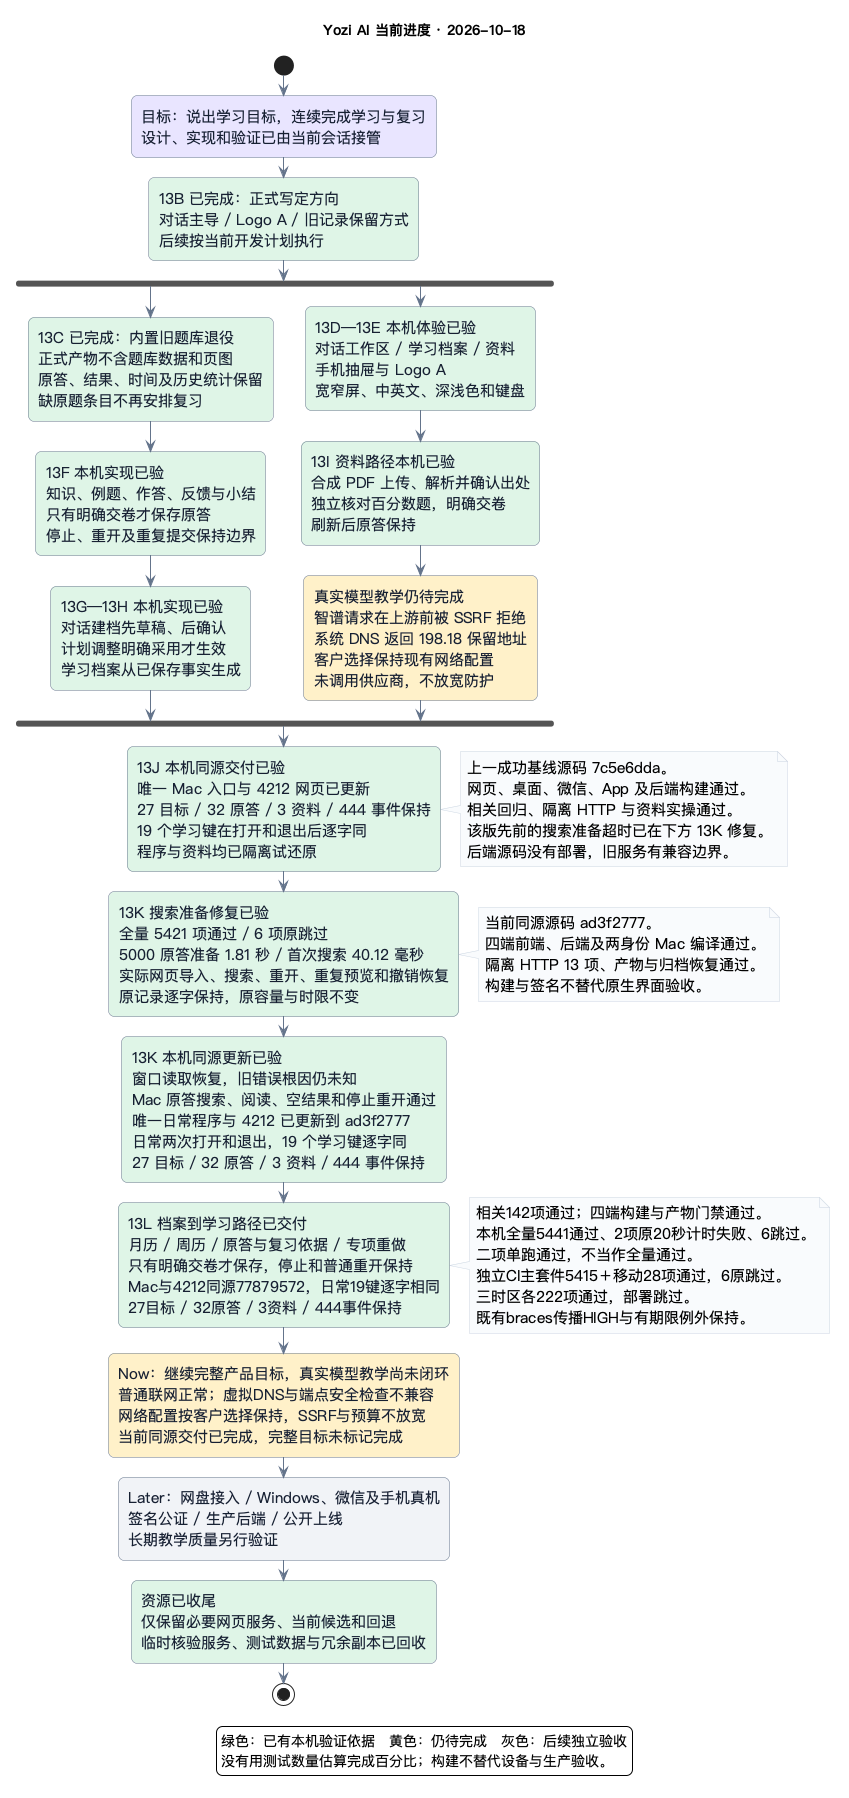
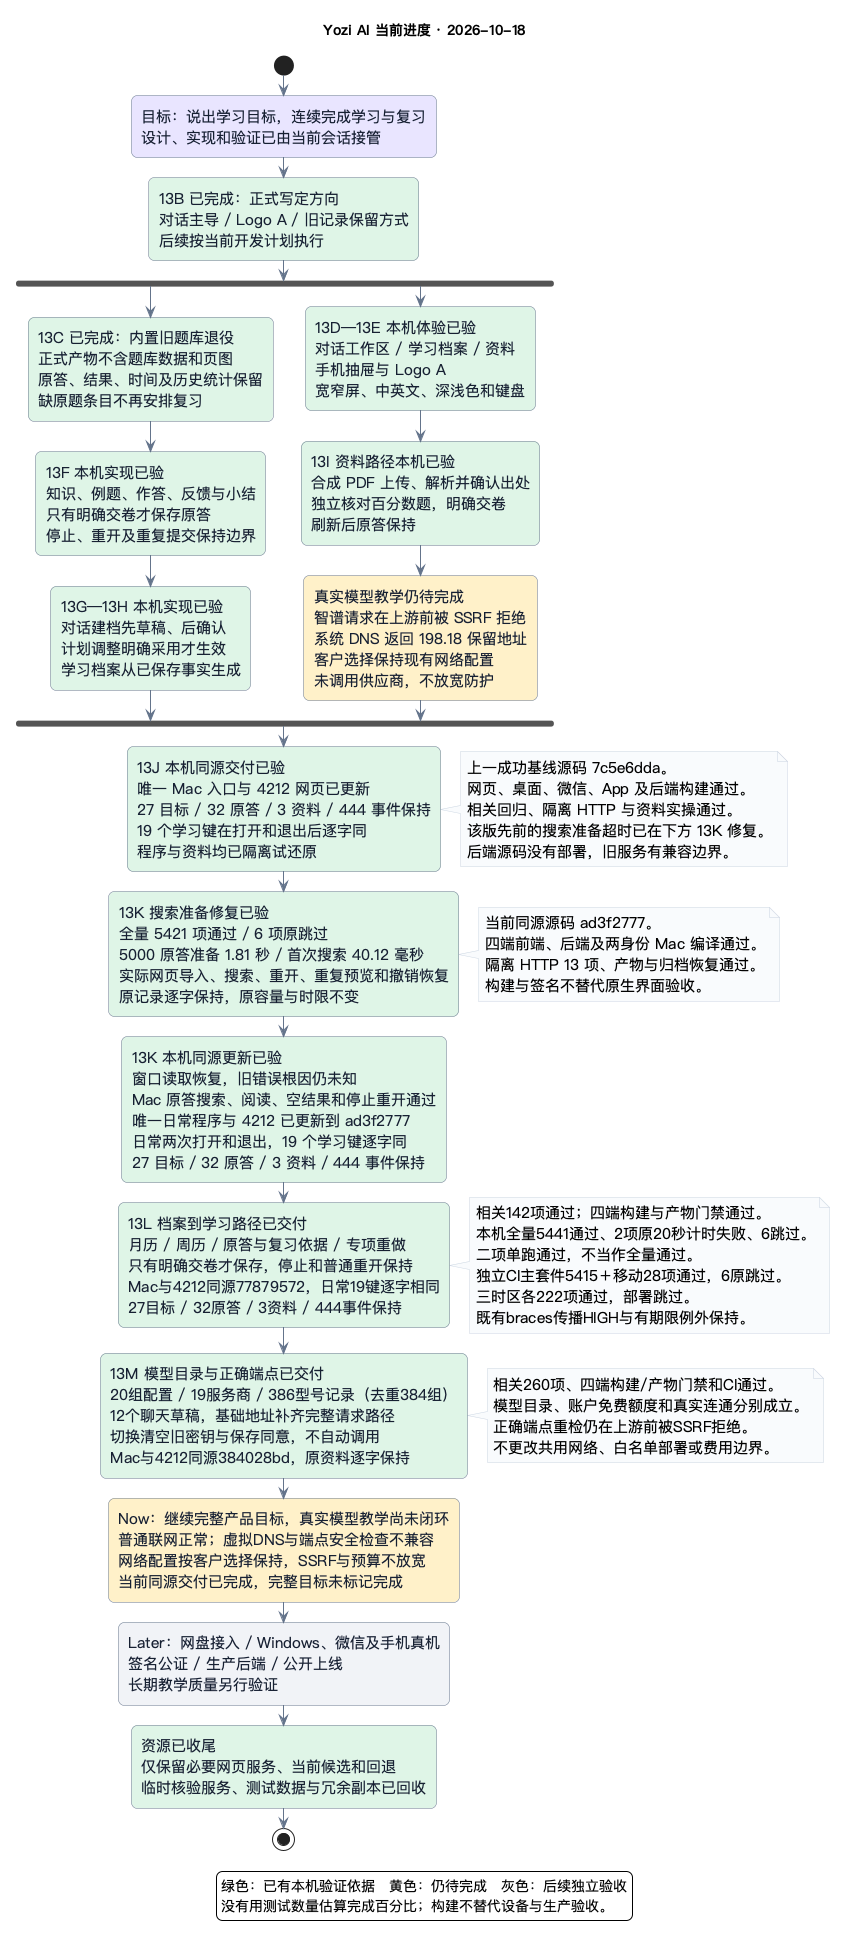
docs(delivery): record model endpoints and verified local update

Changed region(s): [[0.0306, 0.0, 0.9494, 0.9967]]

diff --git a/docs/13-DEVELOPMENT-PLAN.md b/docs/13-DEVELOPMENT-PLAN.md
@@ -4,27 +4,30 @@
 
 客户已授权当前 Codex 会话接管设计、实现与验证，并选定 Logo A。产品与体验合同见[01](01-PRODUCT-VISION.md#ai-辅导平台定位2026-10-18)、[07](07-STYLING-SYSTEM.md#ai-辅导平台界面2026-10-18当前规则)及根 AGENTS。此排序覆盖下方历史 Now / Next / Later 的执行顺序；旧证据不回写。
 
-| 阶段     | 用户结果与主要工作                              | 状态与完成条件                                                                                      |
-| -------- | ----------------------------------------------- | --------------------------------------------------------------------------------------------------- |
-| 交接/12D | 收尾既有 Mac/网页交付                           | 12D 通过；交付文档 6ede157e、09a5226f 已正常推送。4212 与日常版保留，目标 Claude 执行进程已退出。   |
-| 13A      | 对照新定位盘点差距                              | 已完成；沿现有实现逐批改造。                                                                        |
-| 13B      | 写定新方向与设计合同                            | 已提交 d2c6945f；新合同生效。                                                                       |
-| 13C      | 退役内置题库、页图、专用入口/脚本；保留历史记录 | 已实现；移除内置数据/页图/压缩表/索引与专用脚本，读时兼容、正式产物无残留通过。                     |
-| 13D–13E  | 对话工作区、学习档案容器、手机抽屉、Logo A      | 已实现；对话主导、档案/资料/设置、手机抽屉、Logo A；合成网页/Mac实际操作通过。                      |
-| 13F      | 知识→例题→明确作答→反馈→小结的受限卡片协议      | 本机实现；受限卡片/持久化/事件重放/同步保护/旧消息与停止重开已检查；真实模型闭环待网络可用。        |
-| 13G–13H  | 对话建档、用户确认的计划调整及事实图表          | 已实现；逐题建档草稿/原子确认、计划建议明确采用、事实知识点/日历/目标进度；相关交互与协议回归通过。 |
-| 13I      | 连接设置及上传资料学习                          | 本机资料上传/解析/出处通过；真实模型首次尝试被SSRF拒绝，not_called，未冒充教学通过。                |
-| 13J      | 界面细节与同源交付                              | 本机同源交付完成；构建/产物审计、Mac隔离与日常打开、资料保全及原子更新通过。                        |
-| 13K      | 搜索准备性能与真实教学接续                      | 搜索修复及Mac/网页同源更新完成；真实模型教学仍待安全可达端点。                                      |
-| 13L      | 档案月历/周历、依据追溯及专项学习接续           | 已同源交付77879572；日期/原答/专项重做/停止重开、四端构建与CI通过，日常19键逐字保持。               |
+| 阶段     | 用户结果与主要工作                              | 状态与完成条件                                                                                                |
+| -------- | ----------------------------------------------- | ------------------------------------------------------------------------------------------------------------- |
+| 交接/12D | 收尾既有 Mac/网页交付                           | 12D 通过；交付文档 6ede157e、09a5226f 已正常推送。4212 与日常版保留，目标 Claude 执行进程已退出。             |
+| 13A      | 对照新定位盘点差距                              | 已完成；沿现有实现逐批改造。                                                                                  |
+| 13B      | 写定新方向与设计合同                            | 已提交 d2c6945f；新合同生效。                                                                                 |
+| 13C      | 退役内置题库、页图、专用入口/脚本；保留历史记录 | 已实现；移除内置数据/页图/压缩表/索引与专用脚本，读时兼容、正式产物无残留通过。                               |
+| 13D–13E  | 对话工作区、学习档案容器、手机抽屉、Logo A      | 已实现；对话主导、档案/资料/设置、手机抽屉、Logo A；合成网页/Mac实际操作通过。                                |
+| 13F      | 知识→例题→明确作答→反馈→小结的受限卡片协议      | 本机实现；受限卡片/持久化/事件重放/同步保护/旧消息与停止重开已检查；真实模型闭环待网络可用。                  |
+| 13G–13H  | 对话建档、用户确认的计划调整及事实图表          | 已实现；逐题建档草稿/原子确认、计划建议明确采用、事实知识点/日历/目标进度；相关交互与协议回归通过。           |
+| 13I      | 连接设置及上传资料学习                          | 本机资料上传/解析/出处通过；真实模型首次尝试被SSRF拒绝，not_called，未冒充教学通过。                          |
+| 13J      | 界面细节与同源交付                              | 本机同源交付完成；构建/产物审计、Mac隔离与日常打开、资料保全及原子更新通过。                                  |
+| 13K      | 搜索准备性能与真实教学接续                      | 搜索修复及Mac/网页同源更新完成；真实模型教学仍待安全可达端点。                                                |
+| 13L      | 档案月历/周历、依据追溯及专项学习接续           | 已同源交付77879572；日期/原答/专项重做/停止重开、四端构建与CI通过，日常19键逐字保持。                         |
+| 13M      | 免费目录提取与完整请求端点                      | 已同源交付384028bd；20组/19服务商、12个聊天预设，相关检查/四端构建/CI及原资料保持通过，真实连接仍待安全可达。 |
 
-Now：按客户最新指示推进13M免费目录提取与正确请求端点配置，复用已交付13L档案→学习路径；真实模型教学仍按既有免费配置/合成资料授权待安全可达端点，不改共用网络。Next：围绕当前交付继续核对教学、计划和资料的完整用户路径及实际体验反馈；不重复已通过的全量检查，不将独立待验事项标成全产品完成。Later：夸克/百度网盘/Google Drive、Windows/微信/手机真机、签名公证及公开上线；后端部署继续另获授权。
+Now：13M免费目录提取与正确请求端点配置已同源交付384028bd，复用已交付13L档案→学习路径；真实模型教学仍按既有免费配置/合成资料授权待安全可达端点，不改共用网络。Next：围绕当前交付继续核对教学、计划和资料的完整用户路径及实际体验反馈；不重复已通过的全量检查，不将独立待验事项标成全产品完成。Later：夸克/百度网盘/Google Drive、Windows/微信/手机真机、签名公证及公开上线；后端部署继续另获授权。
 
 ### 阶段13M：免费目录与正确请求端点
 
 已读桌面私有HTML数据，提取20组配置/19服务商/386型号记录（去重384组服务商/型号）；两个Gemini项目分开，密钥与账户身份不入源码。全量提取清单沿[14](14-MODEL-PRIVACY-COST.md#免费目录提取与请求端点2026-10-18阶段13m)，12个聊天连接草稿使用已核对的完整请求端点。UI和保存接口仅对精确已知基础路径补齐一次，未知/不安全URL不猜测；选择不写事实或自动调用，切换清空旧密钥、能力和保存同意。未核实免费套餐的鉴权条目、受限条目、匿名/需账户模板不自动启用。
 
 原智谱完整路径本来正确；本次补齐目录不等于修复网络。四个既有获审模型域名使用正确完整端点预检仍为SSRF_BLOCKED，新增供应商调用0；共用网络与原授权/费用/SSRF/TLS边界保持。接入字段、网络可达、模型输出、教学真实性和真实设备分别验收。
+
+同源384028bd已交付Mac唯一入口和4212网页；网页与Mac实际验证预设和端点补齐，选择只改草稿。日常两次正常打开/退出后的19键逐字同，27目标/32原答/3资料/444事件保持；QA14键逐字同。260项相关检查、后端类型、四端构建/产物门禁及独立CI39149775278通过，部署跳过。微信主包1868901字节/媒体175891字节。两份新程序归档实际试还原/元数据/严格签名通过；配对回退及资源收尾沿[08C](08C-SCRIPTS-REFERENCE.md#阶段13m模型端点同源交付)。回收确认无消费者的App暂存/源码镜像63057445文件字节，临时4215退出，原4212及必要原件/备份保持。真实模型教学与完整产品目标继续如实未完成。
 
 ### 阶段13L：档案到学习的完整路径（本机已交付）
 

diff --git a/docs/08C-SCRIPTS-REFERENCE.md b/docs/08C-SCRIPTS-REFERENCE.md
@@ -2,7 +2,7 @@
 
 ## 阶段13：当前构建与题库退役（2026-10-18）
 
-当前交付以本节[阶段13L档案同源交付](#阶段13l档案同源交付)为准；其余阶段保留各自当时的成功基线与恢复条件。
+当前交付以本节[阶段13M模型端点同源交付](#阶段13m模型端点同源交付)为准；其余阶段保留各自当时的成功基线与恢复条件。
 
 13C–13J本机交付固定源码 `7c5e6dda`，唯一Mac入口 `/Users/blackdj/Applications/Yozi AI.app`，版本2.2.0、标识 cn.wangshiliang.wenli.localqa93d5ef76c442 与原资料UUID保持；同身份ad-hoc严格签名通过，不代表签名公证。该版网页入口 `/static/js/index-CLawqI_3.js`，4212原PID10463保持、HTTP逐字核对通过。此前12D交付文档已推送；本批源码与交付记录在本机验收后正常同步仓库，不代表生产部署。
 
@@ -13,6 +13,22 @@
 现行 `audit:question-bank:report/release` 检查源码及指定正式产物不得残留退役题库，旧清洗/压缩/覆盖命令已撤下；下文此前题库清洗和构建说明仅为历史证据，不再执行。通用私人资料解析、OCR、上传恢复、判分和FSRS保留。test:baidu:pipeline 同时保留来源/原件同步与私人解析检查，旧清洗队列及固定考研目录扫描别名撤下。正式发布仍经过公开产物、来源/答案、隐私、安全与外部设备门禁；不运行真实云端发布或付费操作。
 
 候选构建使用 `YOZI_ISOLATED_BUILD=1` 与 `UNI_OUTPUT_DIR=tmp/p13-candidate/<目标>`；保持4212和日常App，直至隔离核验后原子交付。后端编译至同一候选目录，未部署。`verify-learning-live.mjs --tasks album` 单独使用合成百分数资料验证知识/例题卡、精确核对、明确采用计划、订正和独立变式；最多一次请求，后端免费配置与平台付费关闭，不自动重试。客户已在当前会话授权持续使用现有免费配置与合成资料；每次仍记录账本与接收状态。当前首次请求因系统DNS返回198.18保留段被SSRF拒绝，账本not_called，不作为实际教学通过。
+
+### 阶段13M模型端点同源交付
+
+当前本机同源源码384028bd，唯一Mac入口、版本2.2.0、兼容可执行名wenli-desktop、原标识和资料UUID保持。H5入口index-CRYNVEiJ.js、桌面前端index-DHj9UFXN.js；4212原launchd/PID10463保持，实际HTTP与磁盘逐字一致，托管PWA正常关闭重开启用新入口、单一开始动作及0个学习键保持。客户Chrome未操作。
+
+两端均包含12个模型连接草稿及正确完整端点；网页实际验证智谱/Groq填入、基础地址补齐、切换清除密钥/能力/保存同意，Mac验证端点填入与基础路径补齐。网页390/768/1280/1440无横向溢出，已有合成学习键摘要不变；QA Mac原停止断点可读、正常退出后14键与前态逐字同。日常两次实际打开/正常退出，19键与复用的已核验私人备份逐字同，27目标/32原答/3资料/444事件保持；不保存新的账户连接或调用模型。
+
+当前回执指针为`tmp/p13-candidate/verification.json`的`activeContinuation.freeApiConfiguration`。程序归档daily-api-candidate.app.zip / qa-api-candidate.app.zip，均实际解包、核对9项内容/模式/xattrs/恢复纳秒时间及严格签名。对应nativeCandidates.daily.metadata / qa.metadata为恢复依据；mtimeNs使用字符串并用保持精度的工具读写，ZIP不保证纳秒时间。先恢复程序与元数据、核验标识和签名，再打开；程序回退不能覆盖日后新增资料。
+
+上一成功77879572沿daily-archive-candidate.app.zip、元数据activeContinuation.archiveContinuation.nativeCandidates.daily.metadata及配对网页`dist/build/h5-before-api`；更早ad3f2777与7c5e6dda/12A指定基线保留。日常私人备份继续复用private/daily-learning.archive-before.json，QA复用private/qa-learning.archive-after.json，本次替换前已重新比对新鲜只读SQLite；本轮无学习格式变更和资料迁移。原生源码镜像仍只加既定日常UUID适配，差异写入当前回执，根Rust源码未改。
+
+260项相关检查、增强后的预设密钥/能力/同意单项、后端类型检查、四端构建、公开产物/退役无残留检查通过。微信主包1868901字节，媒体175891字节。独立CI39149775278在384028bd通过Lint/Test及既有安全扫描政策，两个部署任务均跳过；现有依赖例外未因本批配置修正而消失，不宣称零依赖风险。编译后的backend复用既有目录，没有部署或启动生产服务。
+
+私有提取清单private/free-api-connections.json含20组/19服务商/386型号记录、去重384组服务商/型号及完整请求端点，不含密钥，0600，不进入Git；桌面源文件未修改。智谱原完整端点本来正确；使用正确端点重检四个既有供应商仍SSRF_BLOCKED、上游调用0，共用网络与安全/费用配置保持。
+
+核验App已正常退出并精确注销，日常入口正常注册；临时4215/PID69388按启动时间核对后正常终止并回收。确认无活跃引用后回收两份App暂存及源码镜像共63057445文件字节；磁盘可用空间63419973632→63481573376字节单列，不当作RAM释放。保留4212、当前候选/完整型号清单、最近两份已验历史备份与指定恢复基线、原资料和大编译缓存。
 
 ### 阶段13L档案同源交付
 

diff --git a/docs/12-CHANGELOG.md b/docs/12-CHANGELOG.md
@@ -6,6 +6,8 @@
 
 智谱、Z.ai、Gemini和Groq已使用完整正确端点再次预检，仍被原虚拟DNS/SSRF检查在上游前拒绝；没有真实供应商调用或共用网络修改。此前智谱完整端点原本正确，不能将补齐地址误报为网络问题已经解决。
 
+同源384028bd已更新日常Mac和4212网页。260项相关检查、后端类型、四端构建与产物门禁、独立CI39149775278通过，部署跳过；日常两次正常打开/退出后19键逐字保持，原27目标/32原答/3资料/444事件不变。程序归档已实际试还原及严格签名；核验App/临时4215和无消费者的暂存/镜像已收尾，清理63057445文件字节，当前候选与恢复基线保持。完整恢复依据见08C，真实模型未连通。
+
 ## 2026-10-18 学习档案接续（阶段13L，本机已交付）
 
 将日期列表补为月历与对话内周历，可查看当天知识点、可靠/待核对结果、原答和到期复习；知识点有依据列表和专项学习入口，三项以上可靠知识点显示SVG比例图，不推算总体掌握度。所有浏览和图表只读事实；缺原题、已撤销依据、未来复习、账户变化与处理中均保留门禁。
